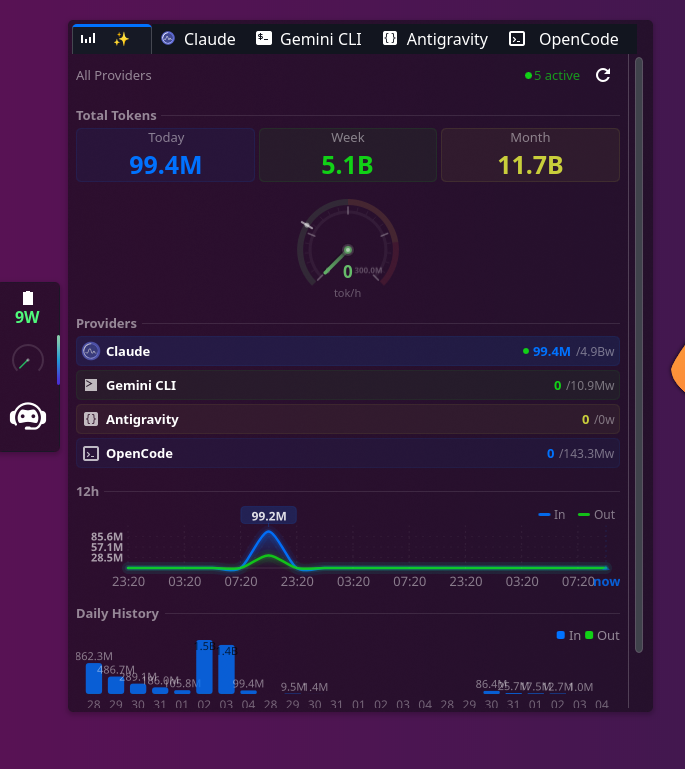
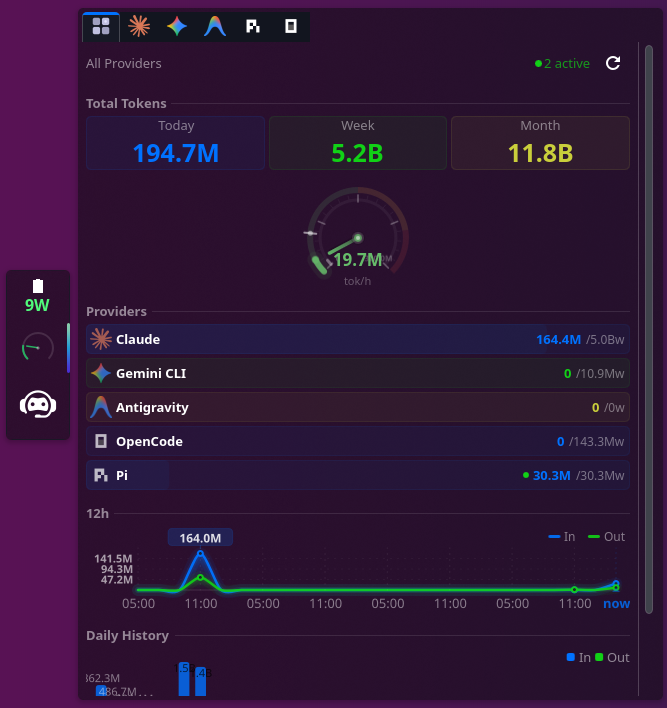
fix(summary): sum combined chart buckets by key instead of concatenating
Previously fineTokens/dailyTokens arrays from each provider were concatenated,
producing duplicate x-axis entries that the chart rendered side-by-side rather
than stacking usage at the same time bucket.

Changed region(s): [[0.0, 0.0, 1.0, 0.9944], [0.4198, 0.1554, 0.6297, 0.404], [0.7196, 0.1554, 0.8696, 0.2486]]

diff --git a/ohmytoken/contents/ui/tabs/SummaryTab.qml b/ohmytoken/contents/ui/tabs/SummaryTab.qml
@@ -59,6 +59,41 @@ Flickable {
     readonly property real combinedOutputRate: Math.max(appRoot.instantOutputRate, appRoot.gcliInstantOutputRate, appRoot.ocInstantOutputRate, appRoot.agInstantOutputRate, appRoot.piInstantOutputRate)
     readonly property real combinedAvg: Math.max(appRoot.rateAll30m, appRoot.gcliRateAll30m, appRoot.ocRateAll30m, appRoot.agRateAll30m, appRoot.piRateAll30m)
 
+    // Merge multiple [{<keyField>, input, output}, ...] arrays by key, summing input/output.
+    // Preserves the temporal order from the longest input source (each provider produces
+    // its own already-ordered window — the longest one is the safest canonical sequence,
+    // and "HH:MM" lex-sort would break across-midnight 12h windows).
+    function mergeByKey(sources, keyField) {
+        var canonical = []
+        for (var s = 0; s < sources.length; s++) {
+            var arr = sources[s] || []
+            if (arr.length > canonical.length) canonical = arr
+        }
+        if (canonical.length === 0) return []
+
+        var out = new Array(canonical.length)
+        var idx = {}
+        for (var i = 0; i < canonical.length; i++) {
+            var k = canonical[i][keyField]
+            var row = { input: 0, output: 0 }
+            row[keyField] = k
+            out[i] = row
+            idx[k] = i
+        }
+        for (var s2 = 0; s2 < sources.length; s2++) {
+            var arr2 = sources[s2] || []
+            for (var j = 0; j < arr2.length; j++) {
+                var r = arr2[j]
+                if (!r) continue
+                var pos = idx[r[keyField]]
+                if (pos === undefined) continue  // key not in canonical window — drop
+                out[pos].input += (r.input || 0)
+                out[pos].output += (r.output || 0)
+            }
+        }
+        return out
+    }
+
     ColumnLayout {
         id: summaryCol
         width: parent.width - Kirigami.Units.smallSpacing - (scrollBar.visible ? scrollBar.width : 0)
@@ -195,7 +230,7 @@ Flickable {
             }
         }
 
-        // Combined 12h Chart (merge fine tokens from all providers)
+        // Combined 12h Chart (merge fine tokens from all providers, summing by time bucket)
         Item {
             visible: _mergedFine.length > 0
             Layout.fillWidth: true
@@ -203,13 +238,13 @@ Flickable {
             Layout.margins: Kirigami.Units.smallSpacing
 
             property var _mergedFine: {
-                var all = []
-                if (appRoot.enableClaude) all = all.concat(appRoot.fineTokens)
-                if (appRoot.enableGeminiCli) all = all.concat(appRoot.gcliFineTokens)
-                if (appRoot.enableAntigravity) all = all.concat(appRoot.agFineTokens)
-                if (appRoot.enableOpenCode) all = all.concat(appRoot.ocFineTokens)
-                if (appRoot.enablePi) all = all.concat(appRoot.piFineTokens)
-                return all
+                var sources = []
+                if (appRoot.enableClaude) sources.push(appRoot.fineTokens)
+                if (appRoot.enableGeminiCli) sources.push(appRoot.gcliFineTokens)
+                if (appRoot.enableAntigravity) sources.push(appRoot.agFineTokens)
+                if (appRoot.enableOpenCode) sources.push(appRoot.ocFineTokens)
+                if (appRoot.enablePi) sources.push(appRoot.piFineTokens)
+                return mergeByKey(sources, "t")
             }
 
             ColumnLayout {
@@ -219,7 +254,7 @@ Flickable {
             }
         }
 
-        // Combined Daily Chart
+        // Combined Daily Chart (merge by day, summing input/output)
         Item {
             visible: _mergedDaily.length > 0
             Layout.fillWidth: true
@@ -227,13 +262,13 @@ Flickable {
             Layout.margins: Kirigami.Units.smallSpacing
 
             property var _mergedDaily: {
-                var all = []
-                if (appRoot.enableClaude) all = all.concat(appRoot.dailyTokens)
-                if (appRoot.enableGeminiCli) all = all.concat(appRoot.gcliDailyTokens)
-                if (appRoot.enableAntigravity) all = all.concat(appRoot.agDailyTokens)
-                if (appRoot.enableOpenCode) all = all.concat(appRoot.ocDailyTokens)
-                if (appRoot.enablePi) all = all.concat(appRoot.piDailyTokens)
-                return all
+                var sources = []
+                if (appRoot.enableClaude) sources.push(appRoot.dailyTokens)
+                if (appRoot.enableGeminiCli) sources.push(appRoot.gcliDailyTokens)
+                if (appRoot.enableAntigravity) sources.push(appRoot.agDailyTokens)
+                if (appRoot.enableOpenCode) sources.push(appRoot.ocDailyTokens)
+                if (appRoot.enablePi) sources.push(appRoot.piDailyTokens)
+                return mergeByKey(sources, "day")
             }
 
             ColumnLayout {
